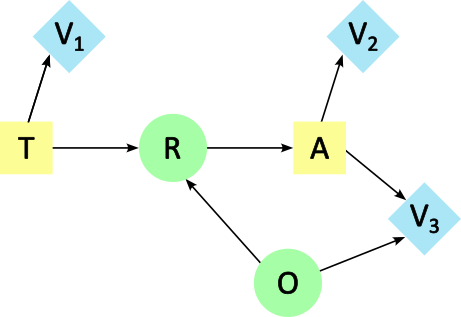
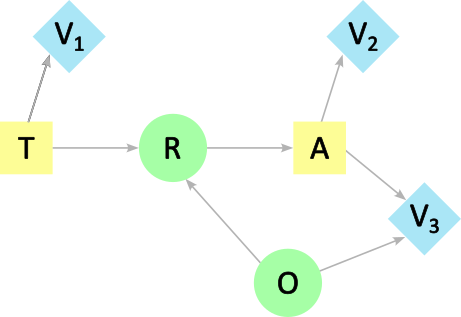
change arc color codes for dealing with dark mode

diff --git a/domain/README.md b/domain/README.md
@@ -24,4 +24,5 @@ Callibri, normal
 - Decision nodes: square or rectangle with color #fdfd96ff  
 - Chance nodes: circle or ellipse with color #a6ffa6ff
 - Value nodes: diamond with color #aae6f6ff
-- Arc: arrow with color #000000
+- Arc: arrow with color #b3b3b3ff
+- Revelation ling: arrow with color #d35f5fff
